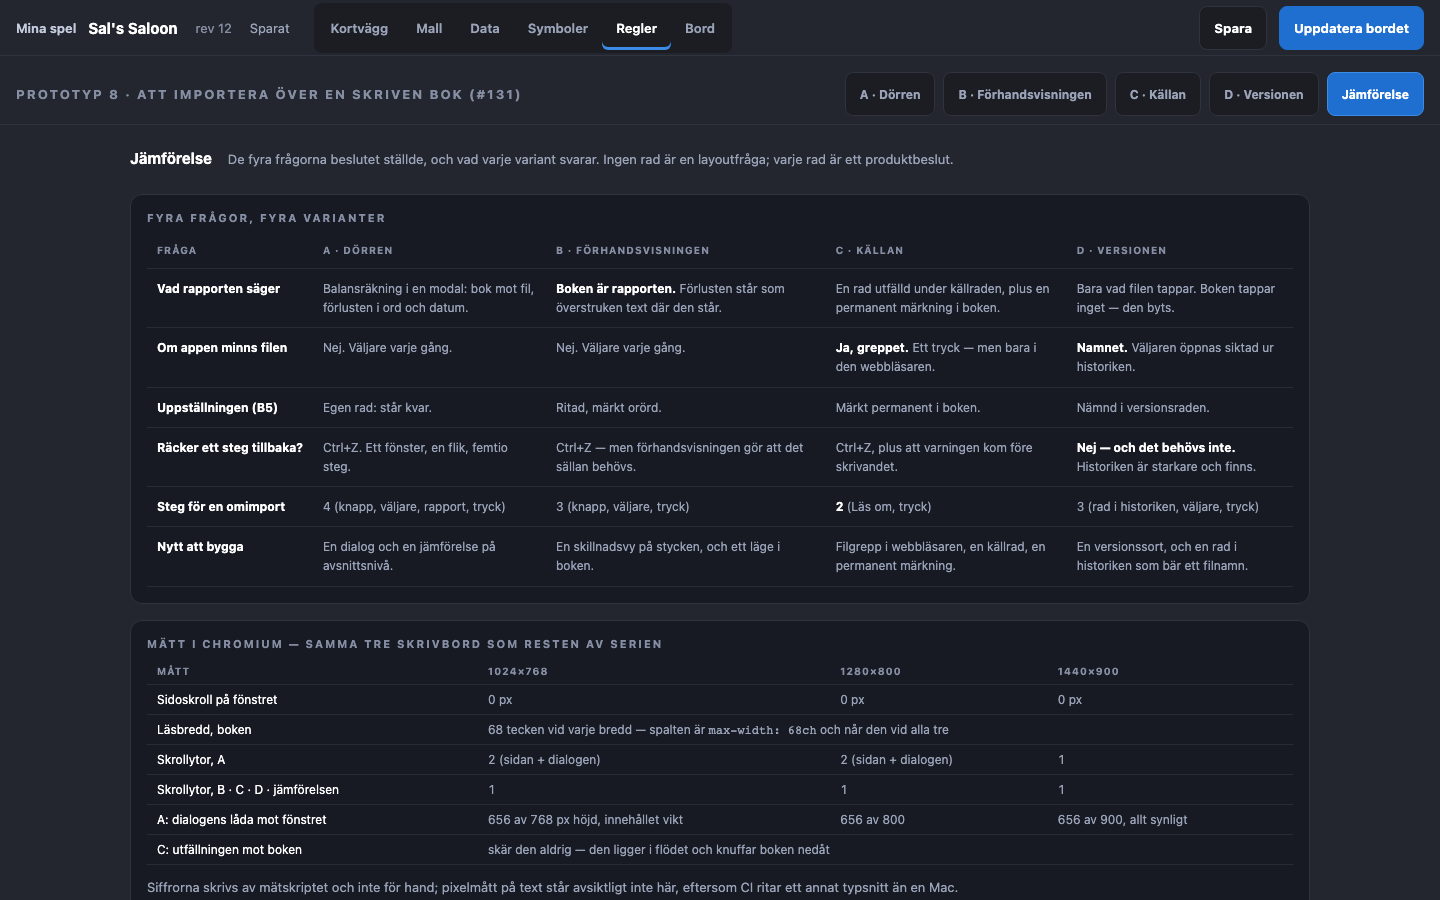
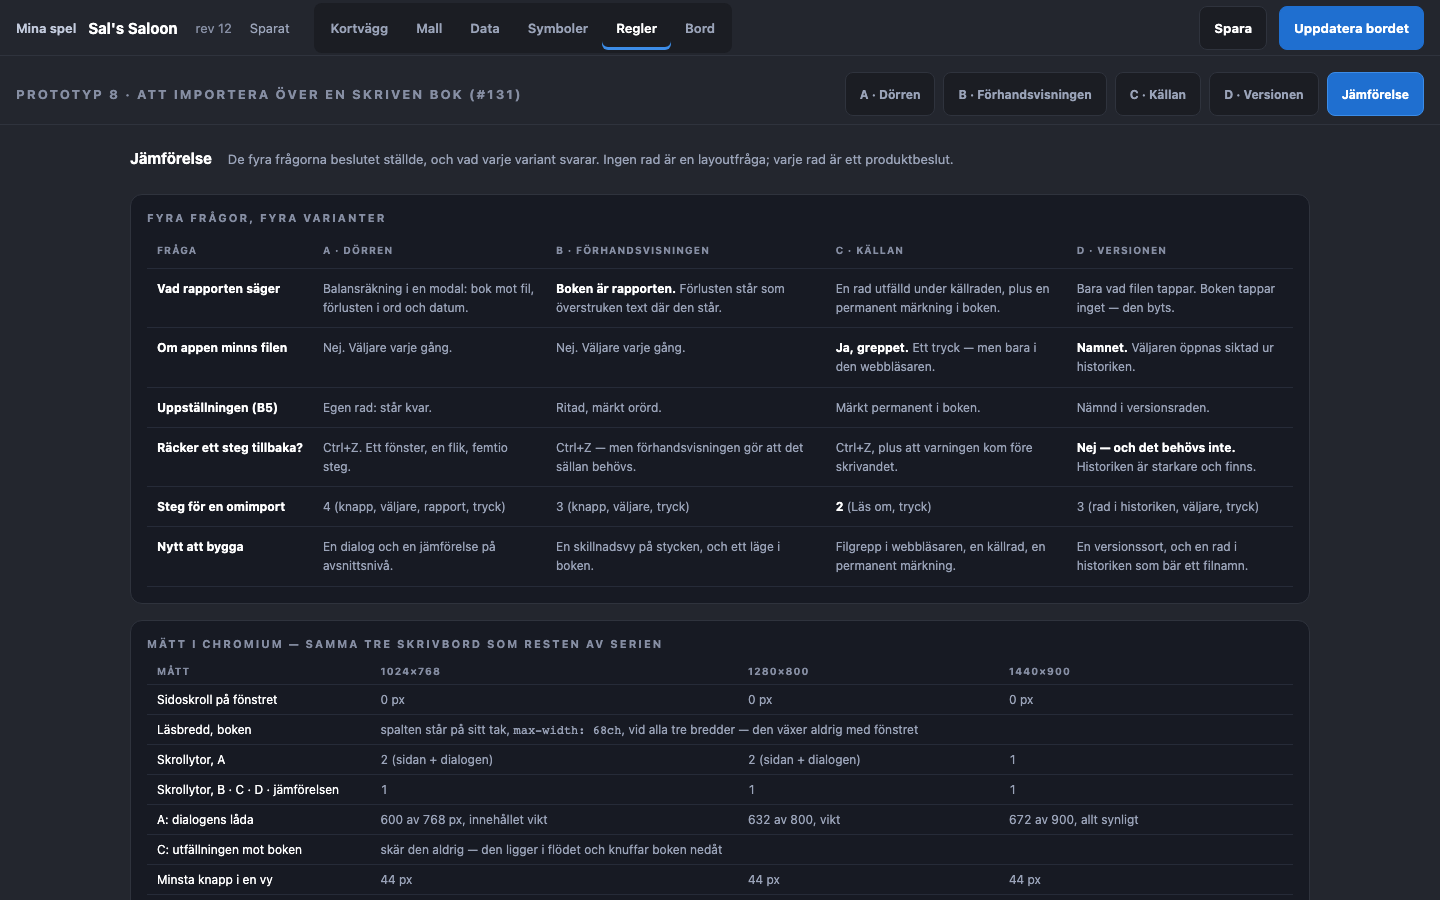
Prototyp 8: utfällningen i flödet, svaren i full bredd, skärmbilder vid 1440 (#131)

diff --git a/docs/ux-audits/2026-09-16/prototypes/08-regler-omimport.html b/docs/ux-audits/2026-09-16/prototypes/08-regler-omimport.html
@@ -89,7 +89,10 @@
   .loss p { margin: 0 0 6px; color: #e8d3d3; font-size: 12px; line-height: 1.6; }
   .loss p:last-child { margin-bottom: 0; }
   details.more { border-top: 1px solid var(--line-soft); padding-top: var(--s3); }
-  details.more > summary { cursor: pointer; color: var(--quiet-2); font-size: 12px; min-height: var(--tap); display: flex; align-items: center; }
+  details.more > summary { cursor: pointer; color: var(--quiet-2); font-size: 12px; min-height: var(--tap); display: flex; align-items: center; gap: 6px; }
+  details.more > summary::before { content: '\25B8'; color: var(--quiet); }
+  details.more[open] > summary::before { content: '\25BE'; }
+  details.more > summary::-webkit-details-marker { display: none; }
   details.more > summary:focus-visible { outline: 2px solid var(--primary-mark); outline-offset: 2px; border-radius: 6px; }
   details.more ul { margin: var(--s2) 0 0; padding-left: 1.2em; color: var(--quiet-2); font-size: 12px; line-height: 1.7; }
   .btn.danger { background: #8c2f2f; border-color: #a33c3c; color: #fff; }
@@ -116,6 +119,7 @@
   del { color: #6f6060; } ins { color: var(--good); text-decoration: none; background: rgba(125, 211, 160, .12); border-radius: 3px; padding: 0 2px; }
 
   /* --- C: källan, filen är kopplad -------------------------------------- */
+  .source + .popover { margin-top: calc(var(--s4) * -1); }
   .source { display: flex; align-items: center; gap: var(--s3); flex-wrap: wrap; padding: var(--s3) var(--s4); border: 1px solid var(--line); border-radius: 12px; background: var(--sunk); }
   .source .dot { width: 8px; height: 8px; border-radius: 50%; background: var(--good); flex: none; }
   .source .dot.off { background: var(--quiet); }
@@ -123,7 +127,7 @@
   .source .meta { color: var(--quiet); font-size: 12px; }
   .source .spacer { flex: 1; }
   .source .btn { font-size: 12px; }
-  .popover { width: min(460px, 100%); margin-left: auto; border: 1px solid var(--line); border-radius: 12px; background: var(--panel); padding: var(--s4); }
+  .popover { border: 1px solid var(--line); border-top: 0; border-radius: 0 0 12px 12px; background: var(--panel); padding: var(--s4); margin-top: calc(var(--s4) * -1); }
   .popover h4 { margin: 0 0 var(--s2); color: #fff; font-size: 13px; }
   .popover .bal { display: flex; gap: var(--s3); flex-wrap: wrap; margin-bottom: var(--s3); font-size: 12px; }
   .popover .bal span { display: flex; gap: 5px; align-items: baseline; }
@@ -490,6 +494,7 @@
           </div>
           <div class="sheet">
             <h2>Sal's Saloon</h2>
+            <p style="color:var(--quiet);font-size:11px;margin-bottom:16px">Utdrag: de två avsnitt som bär en märkning.</p>
             <div class="blk gone" style="text-decoration:none">
               <span class="tag">Finns inte i regler-v4.md — försvinner vid nästa omläsning</span>
               <h3 style="color:#fff;text-decoration:none">Fusk och straff</h3>
@@ -618,6 +623,10 @@
                 <li><b>rev 12</b><span><em>Boken före importen</em><br>15 sep 17:12 · 6 avsnitt, 990 ord — <b>Fusk och straff</b> finns här</span></li>
               </ul>
             </div>
+          </div>
+        </div>
+
+        <div class="wrap" style="margin-top:24px">
             <div class="answers">
               <h3>D:s fyra svar</h3>
               <dl>
@@ -632,7 +641,6 @@
                   en omladdning.</dd>
               </dl>
             </div>
-          </div>
         </div>
       </div>
 
